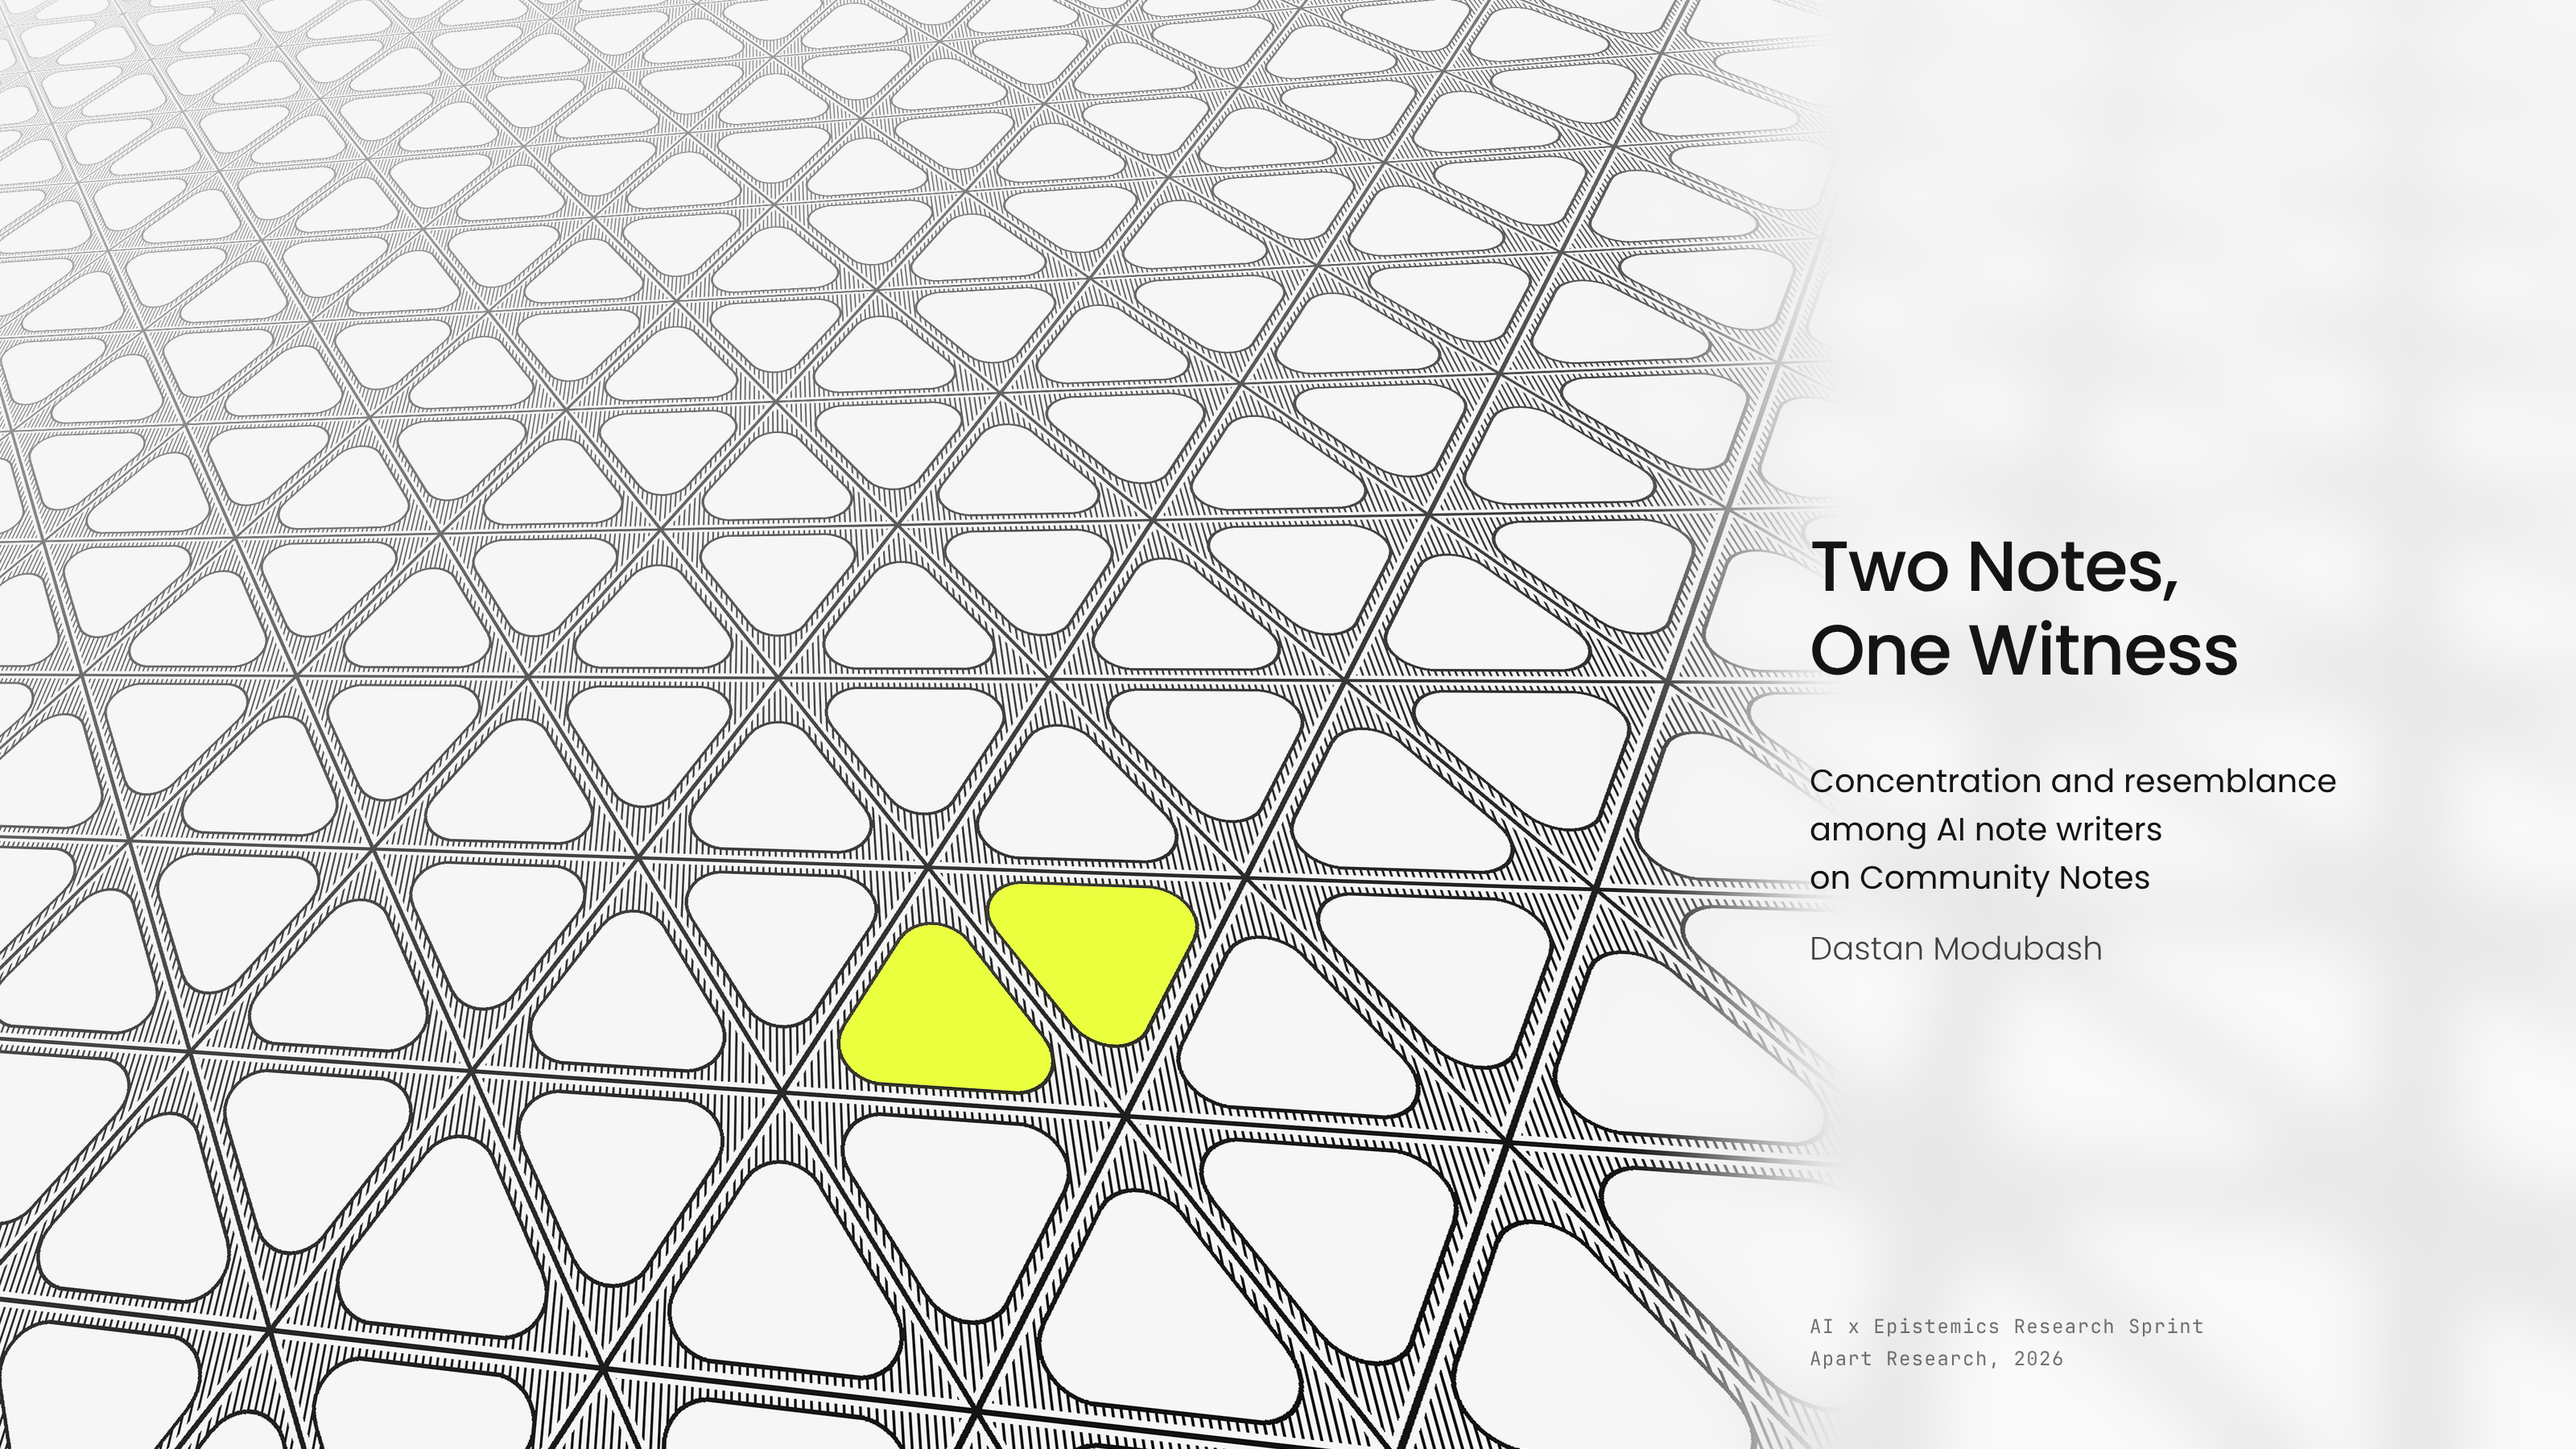
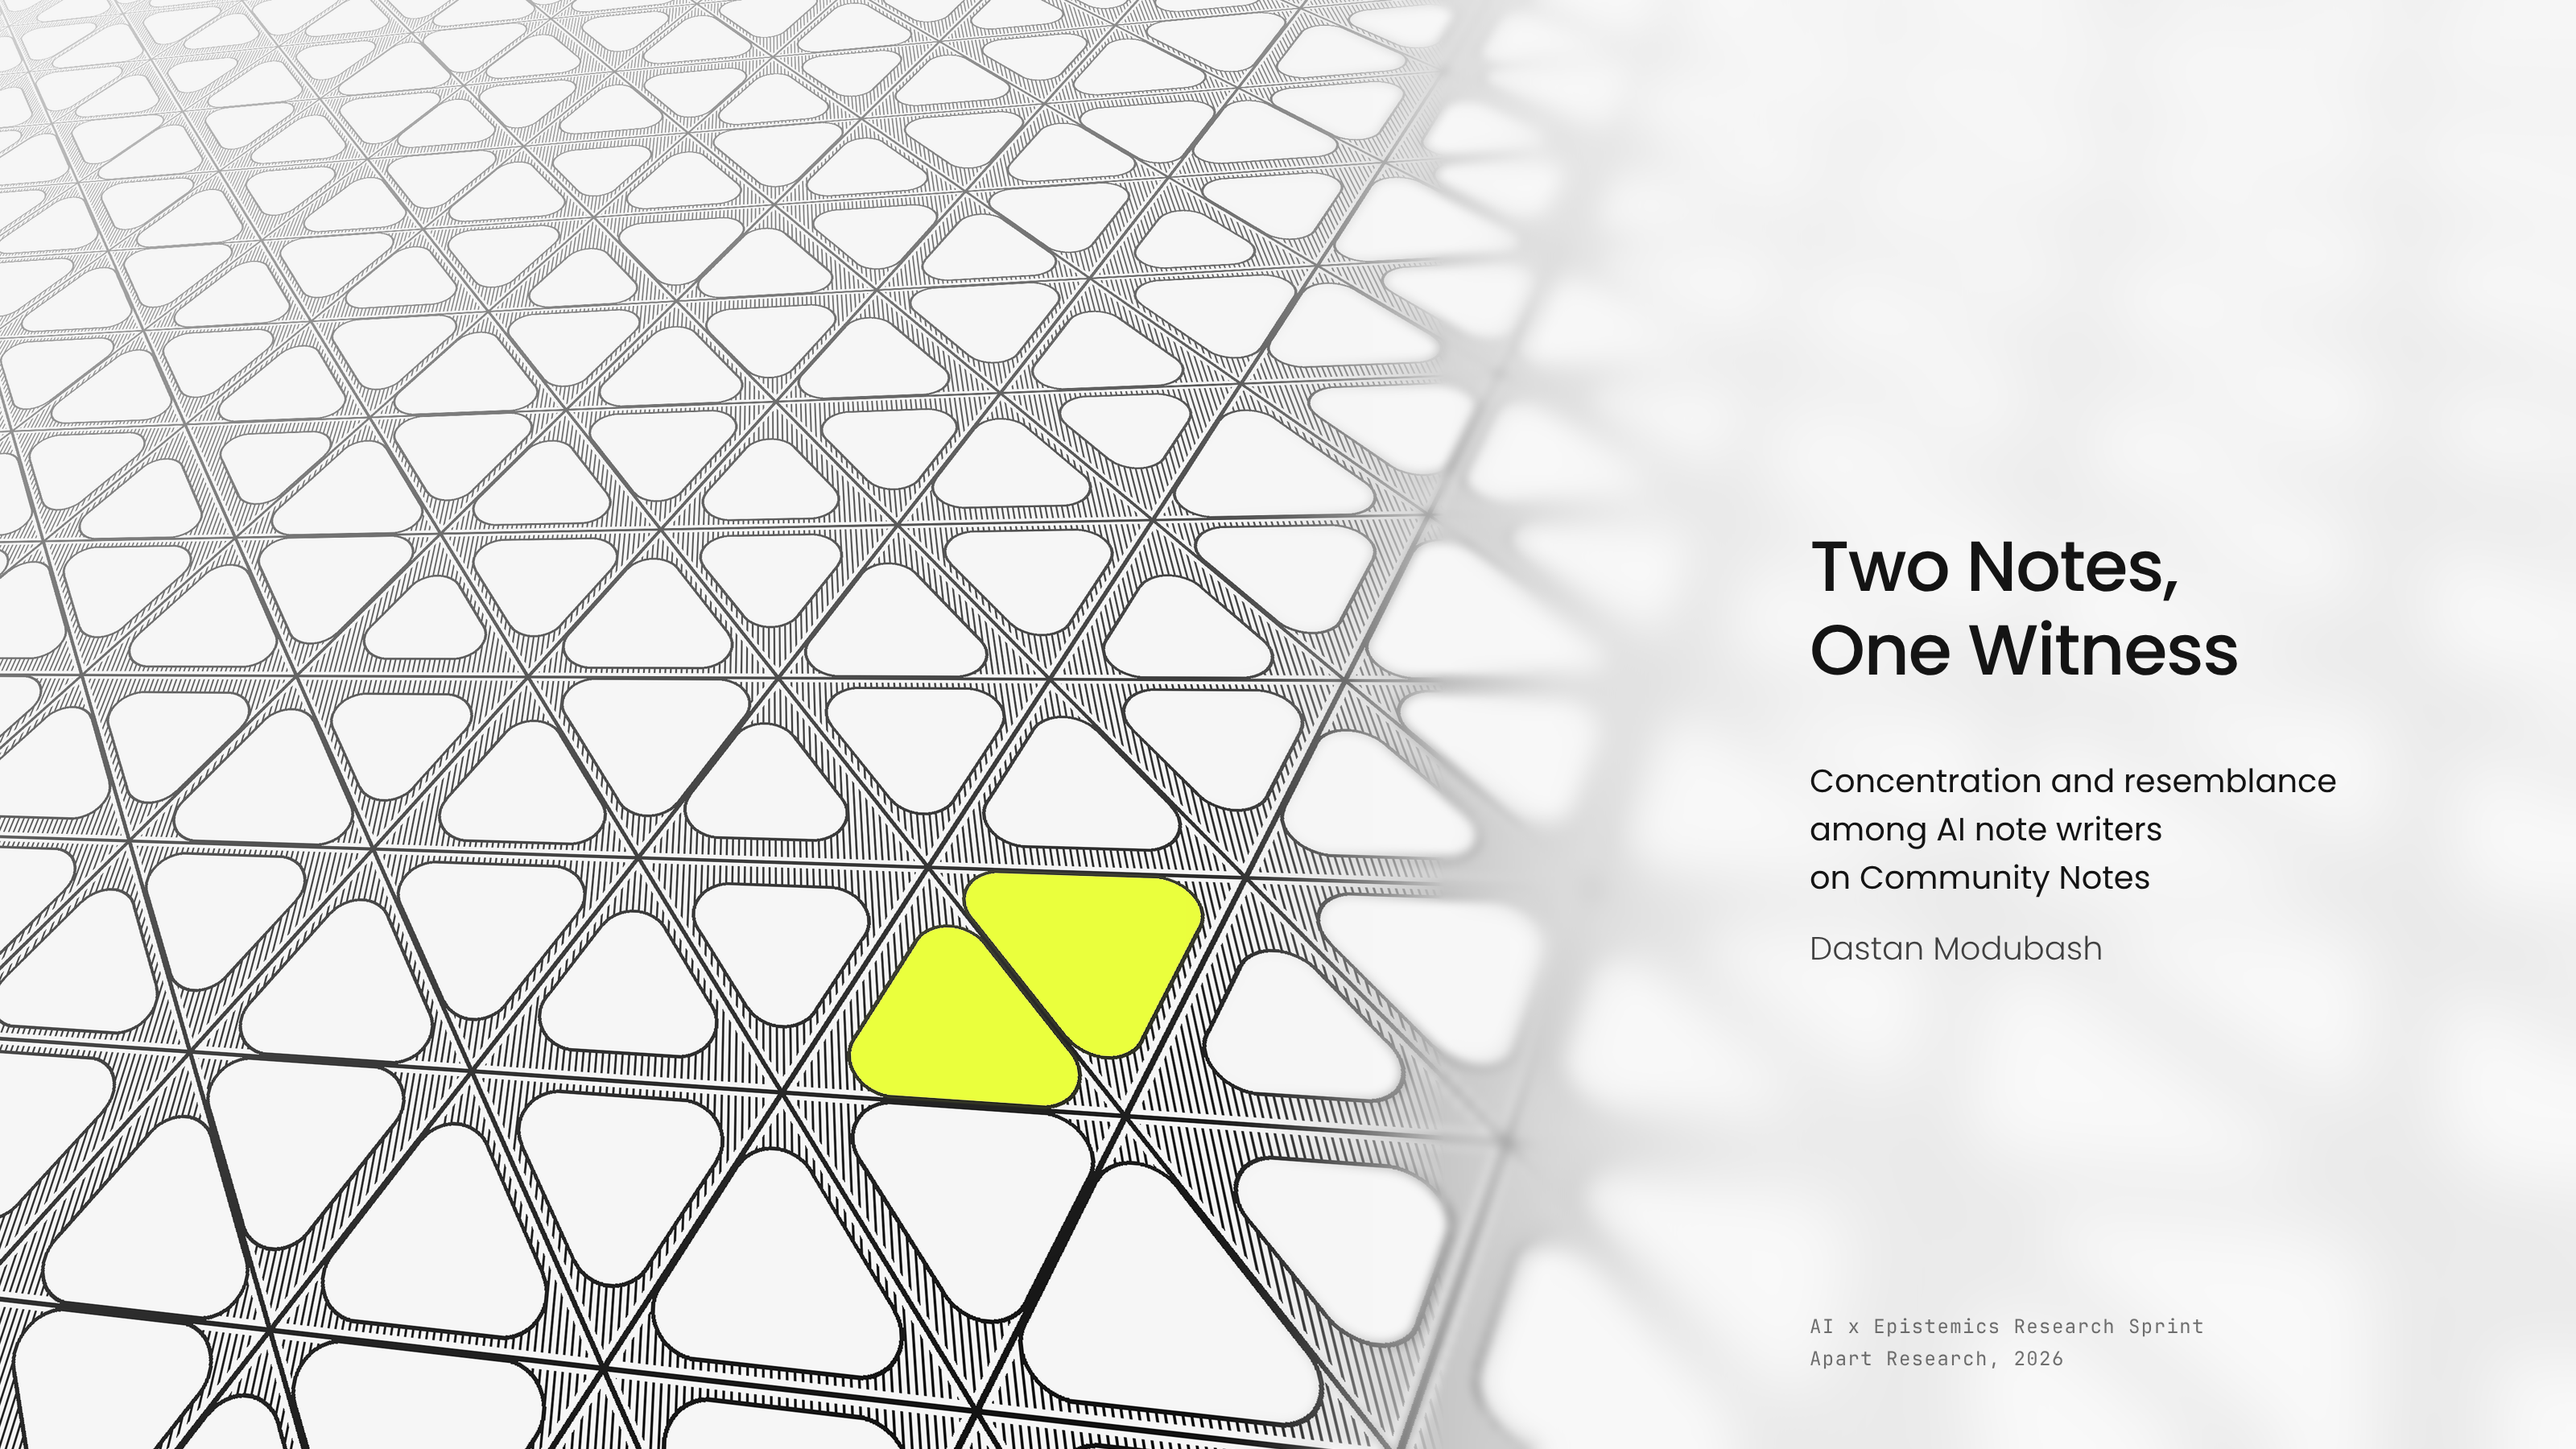
Cover: varied tile-to-line gaps, progressive frosted fade
Each tile edge gets its own gap (tight, normal, wide hatched channel).
The text column fade starts further left and blends five blur levels.

Claude-Session: https://claude.ai/code/session_016TfQQw9fzurNqi1rBMR1dU

diff --git a/report/assets/cover_pattern.py b/report/assets/cover_pattern.py
@@ -24,23 +24,33 @@ def grid_lines(color, width):                                                # t
             x = k * a; d.line([(x, 0), (x + sgn * TW / np.sqrt(3), TW)], fill=color, width=width)
 grid_lines(PAPER, 19)                       # a clear strip either side, so the line reads against the hatching
 grid_lines(INK, 6)
-def rounded(tri, grow):
-    c = np.mean(tri, axis=0); ri = a / (2 * np.sqrt(3)); t = inset + rc
-    inner = [c + (np.array(p) - c) * (ri - t) / ri for p in tri]
-    pts = []
+rng = np.random.default_rng(15)
+INSETS = np.array([7.0, 24.0, 44.0]); PROB = [0.32, 0.46, 0.22]   # tight to the line, normal, wide hatched channel
+def rounded(tri, grow, ins):
+    """Rounded triangle inside tri, each edge pulled in by its own inset (ins[k] for edge k -> k+1)."""
+    c = np.mean(tri, axis=0); P = [np.array(p, float) for p in tri]; lines = []
     for k in range(3):
-        p = inner[k]; for_prev = inner[k - 1]; nxt = inner[(k + 1) % 3]
-        for q2 in (for_prev, nxt):
+        p, q2 = P[k], P[(k + 1) % 3]; e = q2 - p; n = np.array([e[1], -e[0]]) / np.linalg.norm(e)
+        if np.dot(n, c - p) < 0: n = -n
+        lines.append((p + n * (ins[k] + rc), e))
+    inner = []
+    for k in range(3):                                          # vertex k sits between edges k-1 and k
+        (p1, e1), (p2, e2) = lines[k - 1], lines[k]
+        A_ = np.array([e1, -e2]).T; t_ = np.linalg.solve(A_, p2 - p1); inner.append(p1 + e1 * t_[0])
+    cc = np.mean(inner, axis=0); pts = []
+    for k in range(3):
+        p = inner[k]
+        for q2 in (inner[k - 1], inner[(k + 1) % 3]):
             e = q2 - p; n = np.array([e[1], -e[0]]) / np.linalg.norm(e)
-            if np.dot(n, p - c) < 0: n = -n
+            if np.dot(n, p - cc) < 0: n = -n
             pts.append(tuple(p + n * (rc + grow)))
-    hull = sorted(pts, key=lambda p: np.arctan2(p[1] - c[1], p[0] - c[0]))
+    hull = sorted(pts, key=lambda p: np.arctan2(p[1] - cc[1], p[0] - cc[0]))
     return hull, inner
-def draw_tile(dr, tri, fill):
-    hull, inner = rounded(tri, sw)
+def draw_tile(dr, tri, fill, ins):
+    hull, inner = rounded(tri, sw, ins)
     dr.polygon(hull, fill=INK)
     for p in inner: dr.ellipse([p[0] - rc - sw, p[1] - rc - sw, p[0] + rc + sw, p[1] + rc + sw], fill=INK)
-    hull, inner = rounded(tri, 0)
+    hull, inner = rounded(tri, 0, ins)
     dr.polygon(hull, fill=fill)
     for p in inner: dr.ellipse([p[0] - rc, p[1] - rc, p[0] + rc, p[1] + rc], fill=fill)
 # perspective: output corners map to a quad on the flat texture (near bottom right, far top left)
@@ -60,8 +70,9 @@ NEON_TILES = {(best[0], best[1], 0), (best[0], best[1], 1)}           # an up an
 neon_mask = Image.new("L", (TW, TW), 0); dn_ = ImageDraw.Draw(neon_mask)
 for i, j, o, tri in tiles:
     if all(-a < p[0] < TW + a and -a < p[1] < TW + a for p in tri):
-        draw_tile(d, tri, PAPER)
-        if (i, j, o) in NEON_TILES: draw_tile(dn_, tri, 255)
+        ins = rng.choice(INSETS, 3, p=PROB)
+        draw_tile(d, tri, PAPER, ins)
+        if (i, j, o) in NEON_TILES: draw_tile(dn_, tri, 255, ins)
 out = tex.transform((W * Z, H * Z), Image.PERSPECTIVE, tuple(coef), Image.BICUBIC).resize((W * 2, H * 2), Image.LANCZOS)
 nm = neon_mask.transform((W * Z, H * Z), Image.PERSPECTIVE, tuple(coef), Image.BICUBIC).resize((W * 2, H * 2), Image.LANCZOS)
 g = np.asarray(out).astype(np.float32)
@@ -73,9 +84,14 @@ rgb = np.repeat(g[..., None], 3, axis=2)
 m = (np.asarray(nm).astype(np.float32) / 255)[..., None]
 rgb = rgb * (1 - m) + np.array(NEON, float) * m
 Image.fromarray(np.clip(rgb, 0, 255).astype(np.uint8)).save("pattern.png")
-# frosted text column
-base = Image.open("pattern.png"); blur = np.asarray(base.filter(ImageFilter.GaussianBlur(34))).astype(np.float32)
-frost = blur + (250 - blur) * 0.80
-t = np.clip((xx / (W * 2) - 0.62) / 0.10, 0, 1); t = (t * t * (3 - 2 * t))[..., None]
-final = np.asarray(base).astype(np.float32) * (1 - t) + frost * t
+# frosted text column: blur and lightening both grow smoothly from left to right
+base = Image.open("pattern.png"); B0 = np.asarray(base).astype(np.float32)
+levels = [B0] + [np.asarray(base.filter(ImageFilter.GaussianBlur(rad))).astype(np.float32) for rad in (6, 14, 26, 40)]
+u = np.clip((xx / (W * 2) - 0.46) / (0.74 - 0.46), 0, 1); u = u ** 3 * (u * (u * 6 - 15) + 10)   # smootherstep
+pos = u * (len(levels) - 1); k0 = np.floor(pos).astype(int); fr = (pos - k0)[..., None]
+k1 = np.minimum(k0 + 1, len(levels) - 1)
+stack = np.stack(levels)                                          # (L, H, W, 3)
+hh, ww = np.indices(k0.shape)
+blurred = stack[k0, hh, ww] * (1 - fr) + stack[k1, hh, ww] * fr
+final = blurred + (250 - blurred) * (0.82 * u ** 0.55)[..., None]   # lightening runs ahead of the blur, so the middle of the fade stays light
 Image.fromarray(np.clip(final, 0, 255).astype(np.uint8)).save("cover_bg.png")
